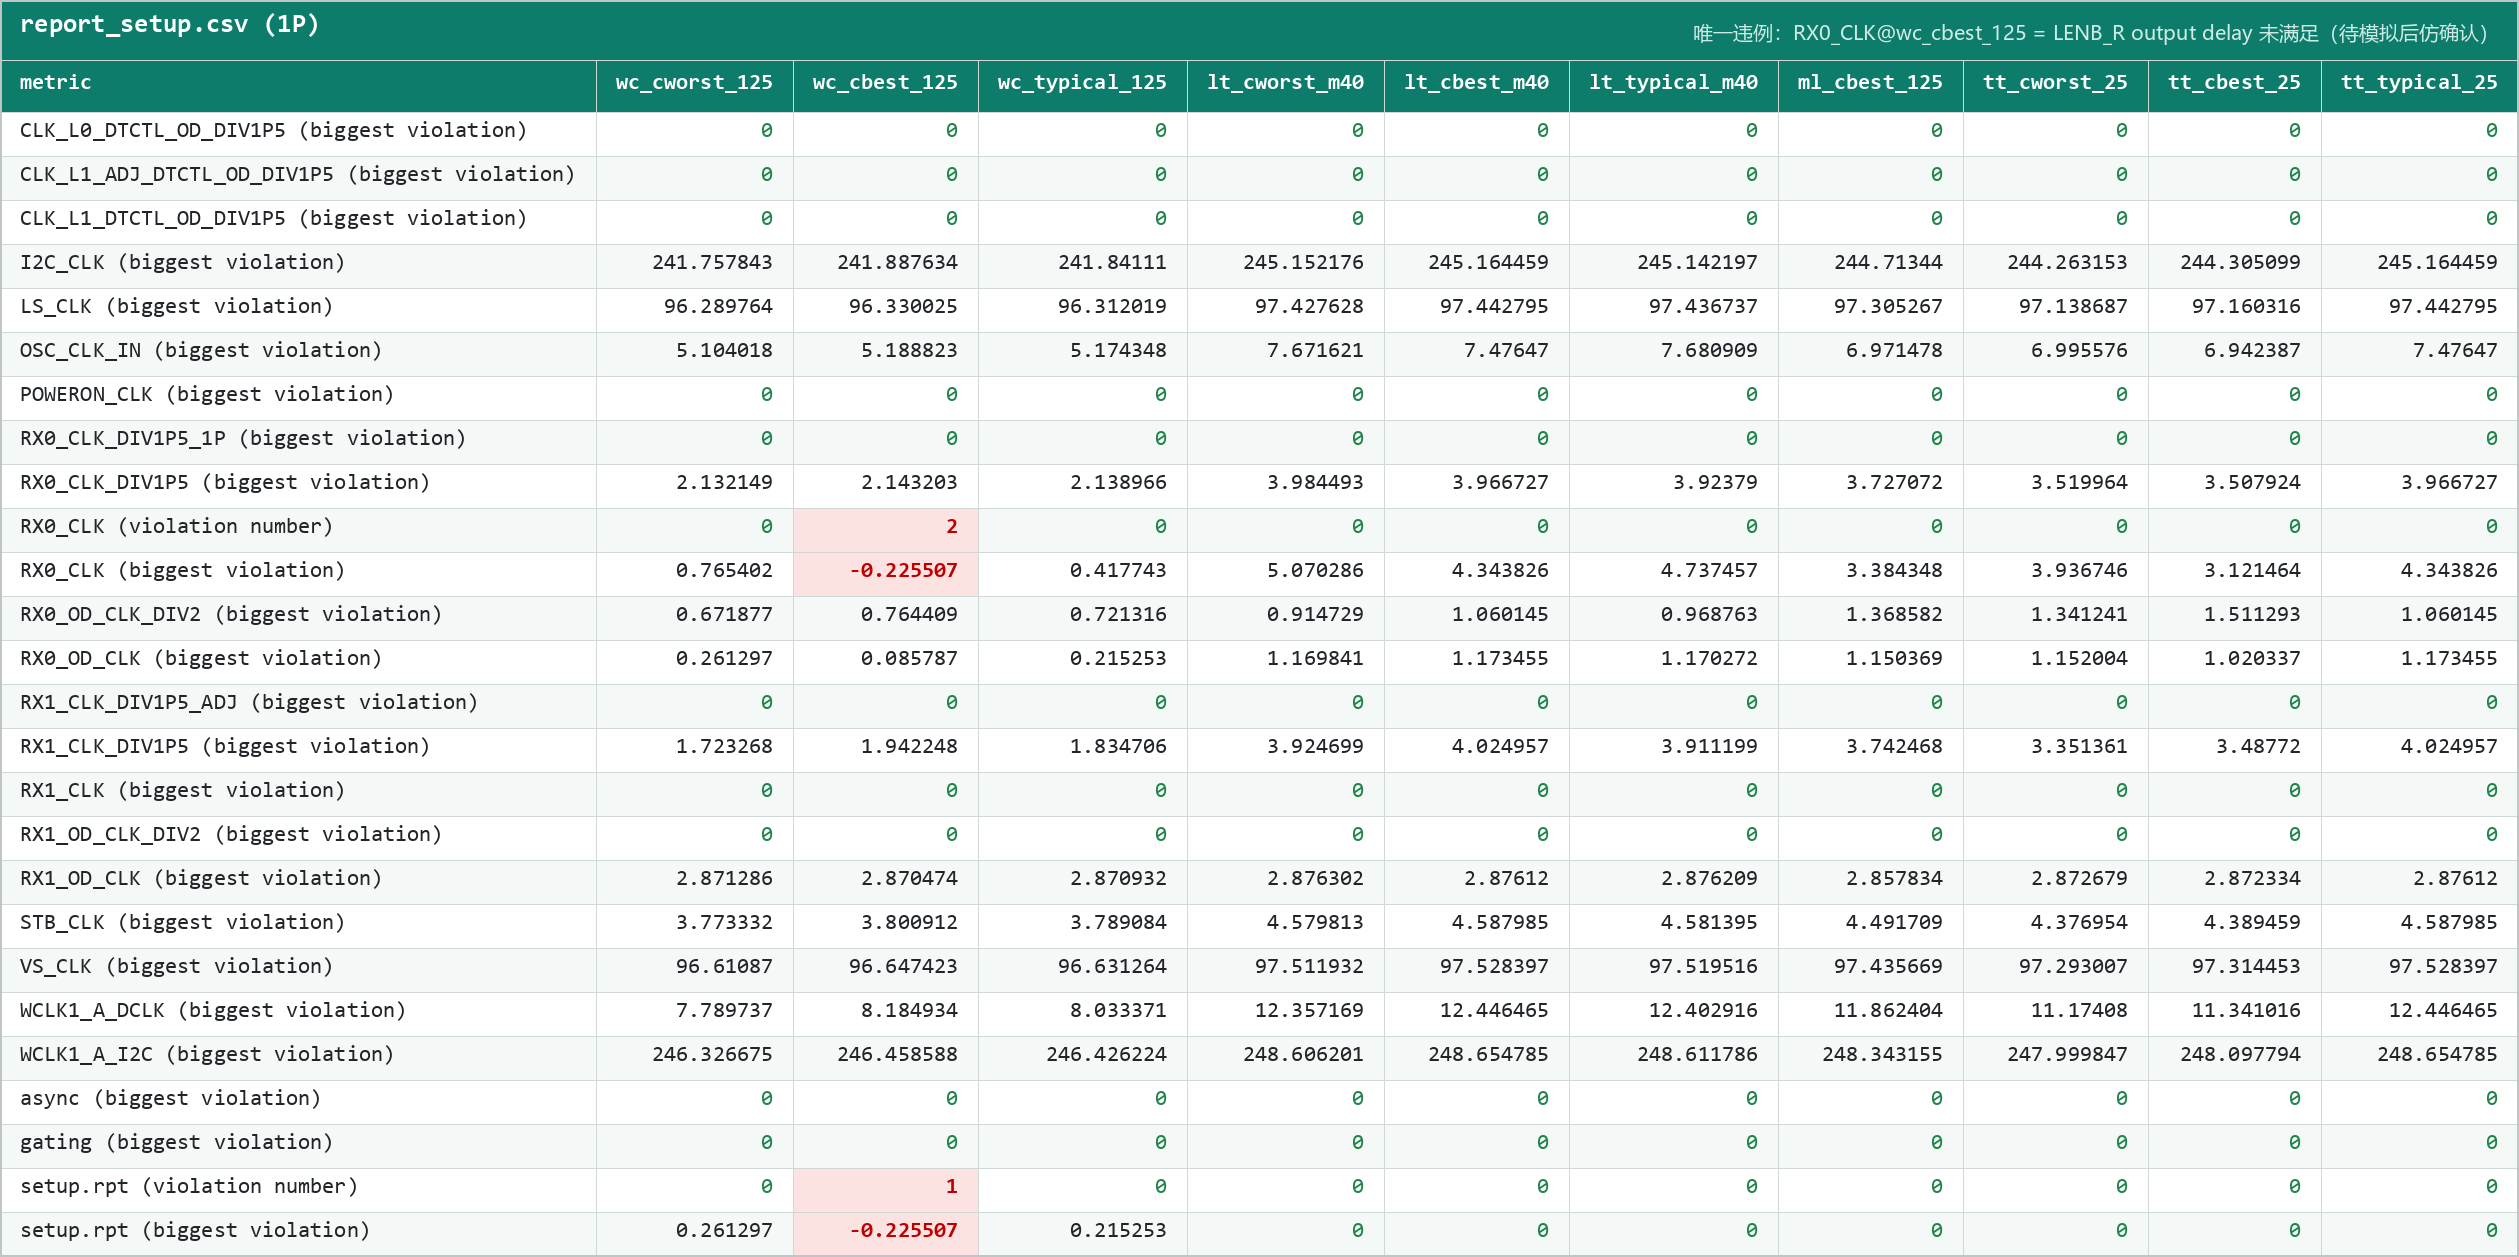
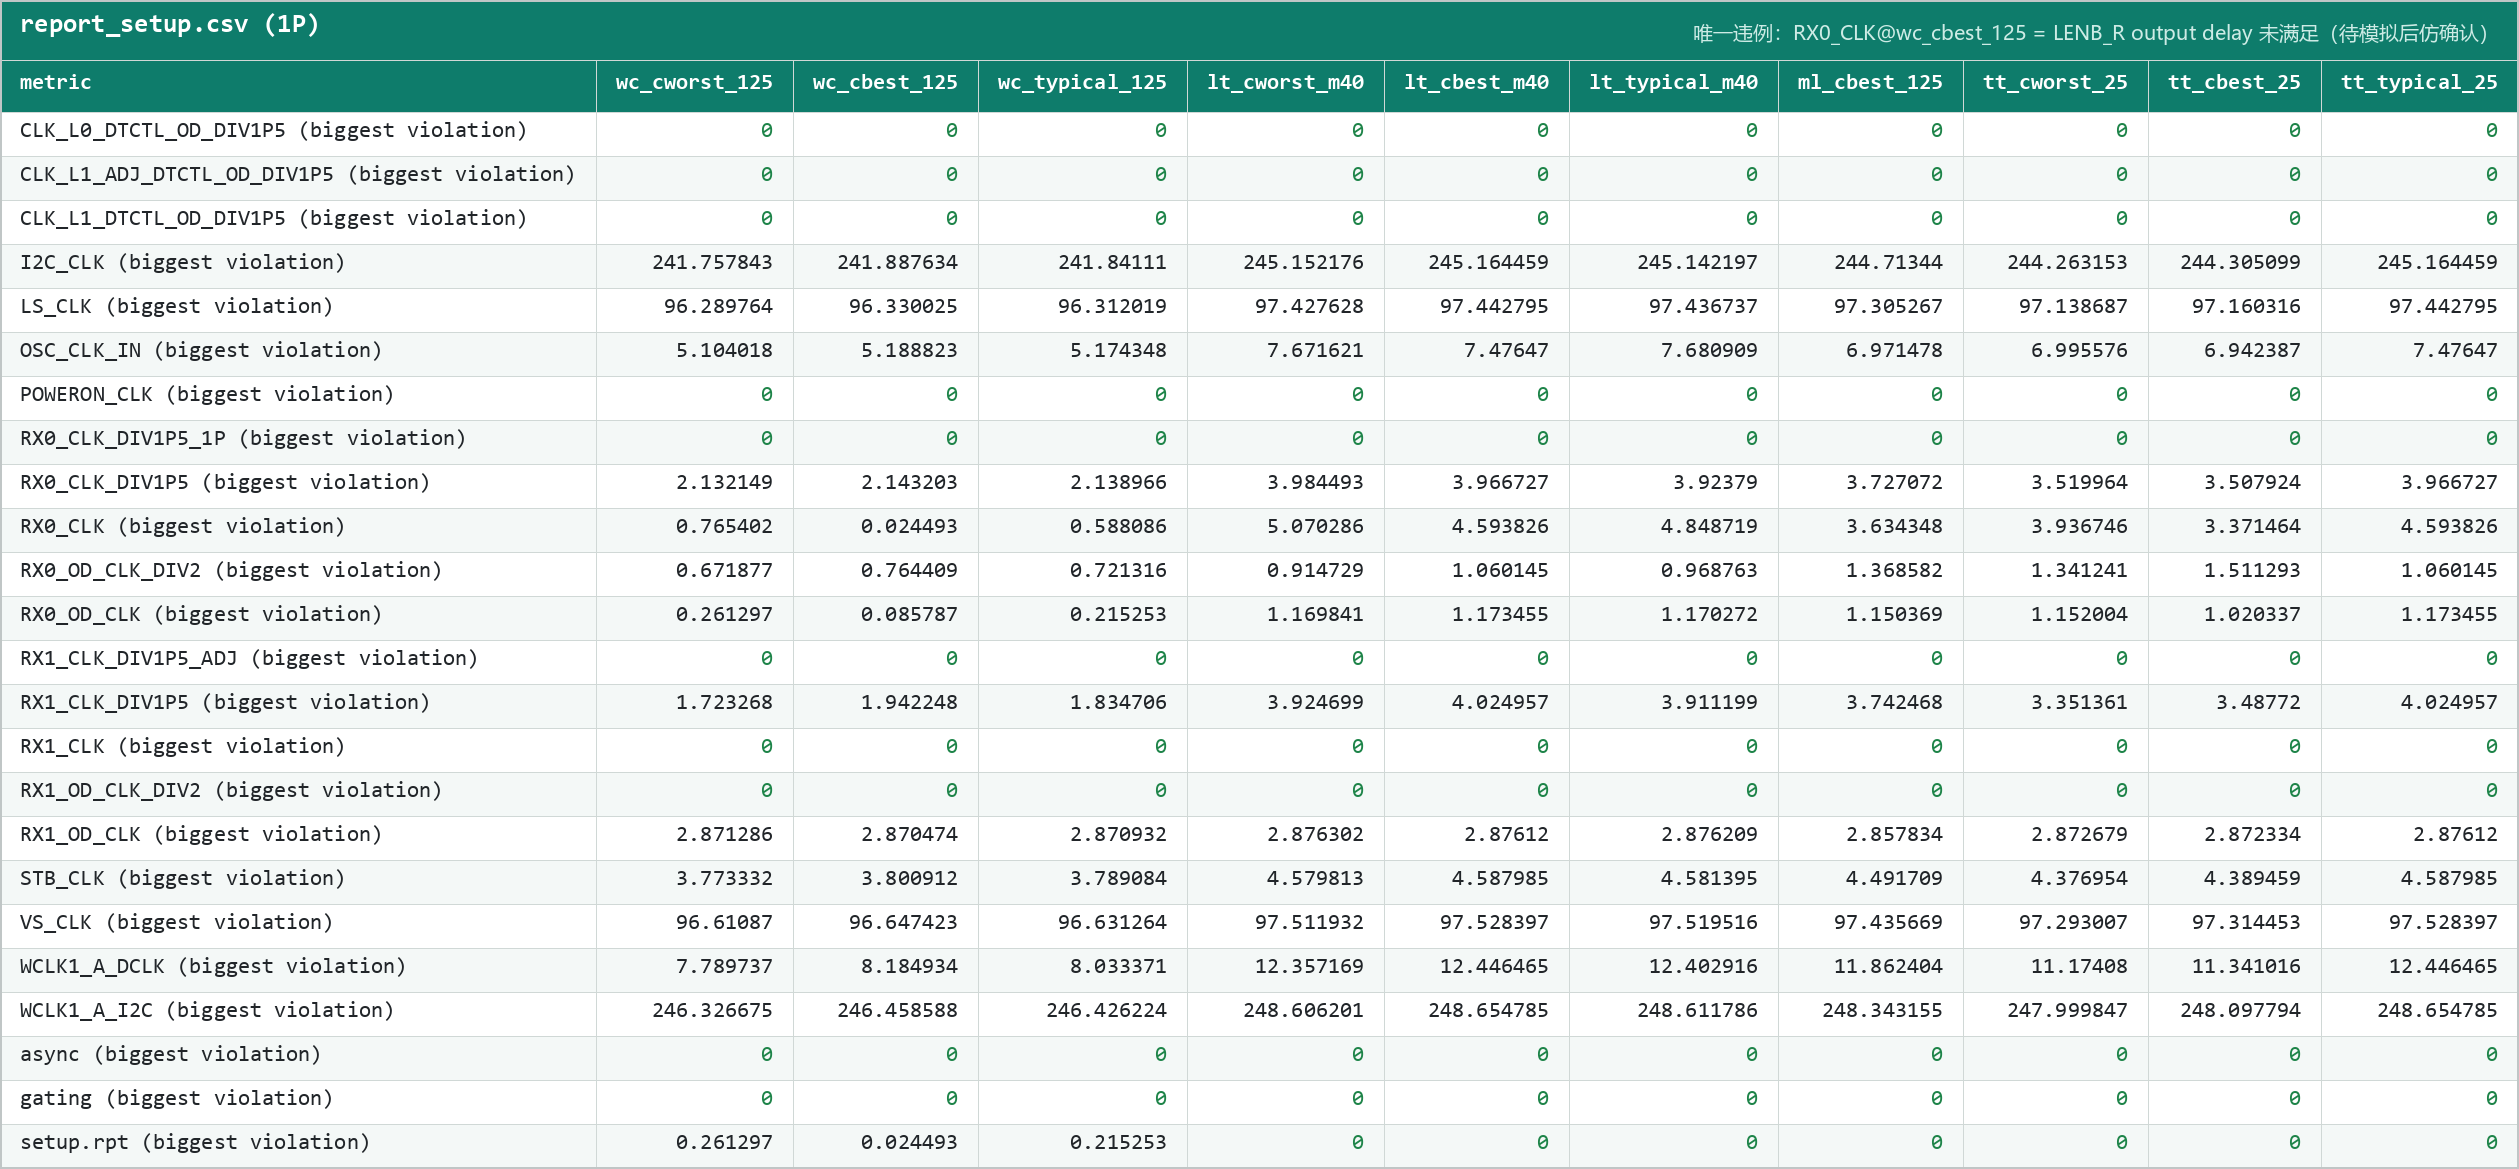
sync: 1P setup 负 slack 消除（V1 替换）+ buf noload 消除（V0）+ 更新 LENB_R 描述 + 全部报告图重新生成

diff --git a/synthesis-integration-flow-guide/pt-intro.html b/synthesis-integration-flow-guide/pt-intro.html
@@ -750,7 +750,7 @@ post PT 10 个 corner 全部跑完后，执行 <a href="./script-dict.html#run_s
 
 ![POST PT run_summary 后的 merge 总表 report_setup.csv（1P）](./image/31_postpt_setup_1p.png)
 
-第一步·找目标：在 merge 总表里扫 **violation number ≠ 0 或 biggest violation 为负** 的 clock 组，这些就是要处理的违例。当前版本仅 1P 总表有 1 条：`RX0_CLK @ wc_cbest_125`（biggest −0.225507，图中红格），其终点为 **LENB_R**（RX0_CLK 域 output port），属 **output delay 未满足**而非内部逻辑路径，需模拟设计师后仿继续确认（判读详见 <a href="./to-signoff.html" target="_blank">TO SIGNOFF 页</a>）。
+第一步·找目标：在 merge 总表里扫 **violation number ≠ 0 或 biggest violation 为负** 的 clock 组，这些就是要处理的违例。**最新版本（8/17）1P / 2P 两套总表 violation number 已全部为 0、无负 slack**（此前 1P 曾有 `LENB_R` output delay 违例 `−0.225507`，经 setcase 修复后已消除，详见 <a href="./to-signoff.html" target="_blank">TO SIGNOFF 页</a>）。未来若出现新违例，仍按此方法定位。
 
 找到目标后到**对应 corner 目录**看具体报告定位路径。示例：总表里 `wc_cbest_125` 的 `CLK_L0_DTCTL_OD_DIV1P5` 组有 5 条 violation（biggest −0.0499），打开 `SYNTHESIS/top/sta/post/pt/wc_cbest_125/latest_2p/rpt/setup/report_timing_setup.rpt`，按 slack 排序找到 VIOLATED 路径，看清 Startpoint / Endpoint / Path Group：
 

diff --git a/synthesis-integration-flow-guide/to-signoff.html b/synthesis-integration-flow-guide/to-signoff.html
@@ -387,7 +387,7 @@ flowchart LR
 
 ![report_setup.csv 1P](./image/31_postpt_setup_1p.png)
 
-NOTE: 1P 唯一一条 setup 违例（`RX0_CLK @ wc_cbest_125`，biggest violation = -0.225507）终点是 **LENB_R**（RX0_CLK 域 output port），属 **output delay 未满足**（data arrival 10.30ns vs required 10.08ns，output external delay 0.5ns），不是内部逻辑路径。LENB_R 走模拟通路，**需模拟设计师后仿继续确认**。
+NOTE: 最新版本（8/17）1P 的 setup 违例已全部消除——`RX0_CLK` 组在 10 个 corner 下 violation number 全 0、biggest violation 全部为正（此前 1P 曾有 `LENB_R` output delay 违例 `−0.225507`，经 setcase 修复后已不再出现）。1P / 2P 两套 setup 总表现在均无负 slack。
 
 原始文件：<a href="./server-reports/postpt_summary/POST_PT_2P/report_setup.csv" target="_blank">report_setup.csv</a>（逐 corner 原始报告见 <a href="./server-reports/postpt_summary/POST_PT_2P/" target="_blank">POST_PT 目录</a>）
 
